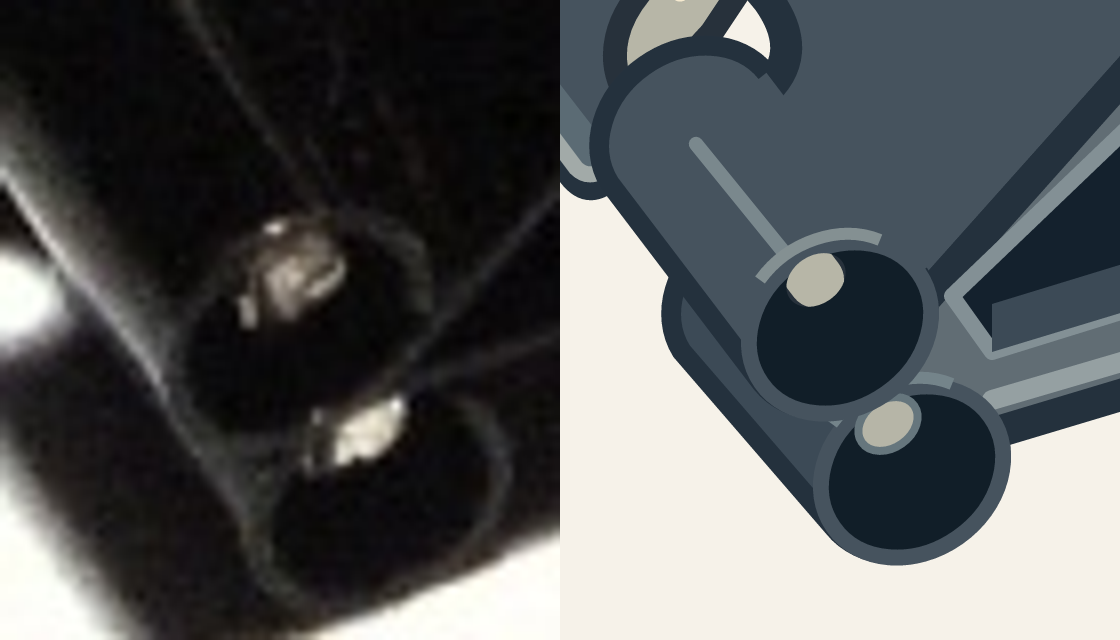
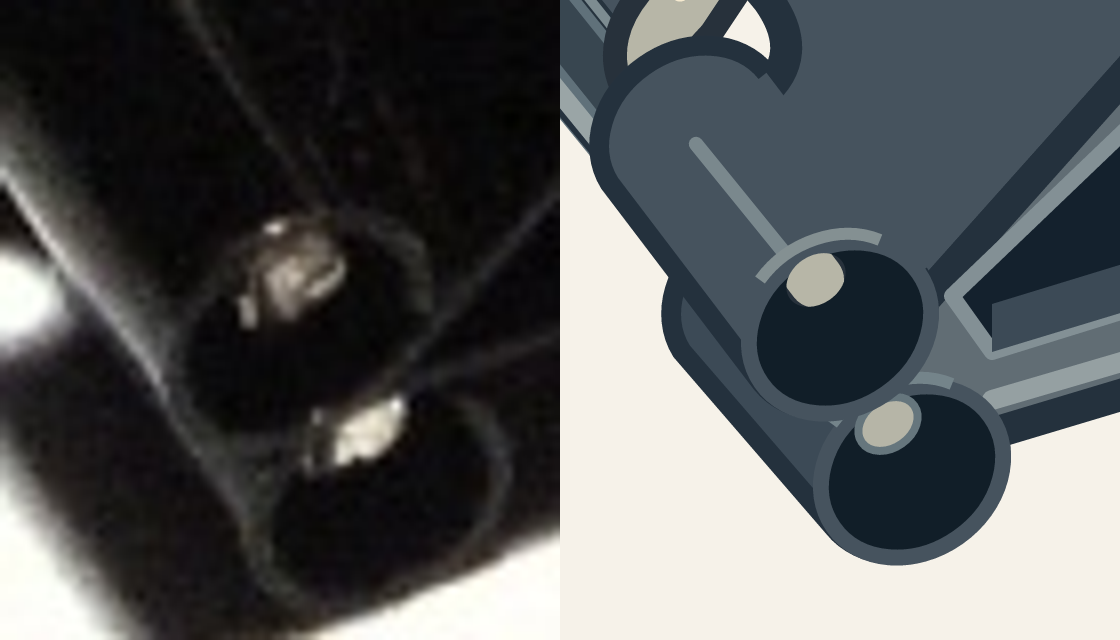
Correct binder clip central edge to an upturned open curl

Changed region(s): [[0.5, 0.0938, 0.5625, 0.3125], [0.5, 0.0, 0.5625, 0.0625]]

diff --git a/examples/svg-binder-clip/README.md b/examples/svg-binder-clip/README.md
@@ -11,7 +11,7 @@ This is an actual iterative example, including errors; it is not a performance b
 | `reference.jpg` | Richard Wheeler's complete oblique clip; target silhouette, handle projections and relative locations | Dark paint hides parts of the mouth; not an orthographic ruler |
 | `support-black.jpg` | HenryLi's black clip, broad-face oblique; sheet continuity and raised wire legs | Different specimen/size, not a source of target proportions |
 | `support-unpainted.jpg` | Prosavage2600's unpainted folded clip; rolled sheet and wire contact under different reflectance | Different finish/specimen; not a color or silhouette reference |
-| `support-no-handles.jpg` | Thaurisil's arm-up/arm-down/arm-free clips; the exposed mouth confirms the central shallow folded lip and chamfered returns into two entry slots | Different specimen, topology only; not a dimensional source |
+| `support-no-handles.jpg` | Thaurisil's arm-up/arm-down/arm-free clips; the exposed mouth identifies two entry slots and the central continuous sheet; the metal-finish view is needed to read its raised curled section | Different specimen, topology only; not a dimensional source |
 | `support-views.jpg` | Polyparadigm's set; large broad-face clip shows two mouth interruptions and central curled lip; lower-right end view shows folded cross-section | Different sizes and poses; only common visible topology is transferable |
 
 Searches included `binder clip single`, Commons file/category searches, and candidate
@@ -42,8 +42,8 @@ Current source uses shared coordinates for independent parts:
 
 The initial partial-local attempt failed. The current version follows the complete
 [local execution record](execution-record.md), with actual independent part/context
-inspections before reassembly in `source.svg`, followed by a fresh
-[current whole inspection](execution-record.md#current-whole-inspection-after-central-rework).
+inspections before reassembly in `source.svg`, followed by whole inspection and subsequent user corrections in the
+[central rework and withdrawn whole inspection](execution-record.md#upturned-central-curl-correction).
 The render script checks that assembly includes the exact current part groups. This
 checks version integrity, not whether the drawing is structurally or artistically correct.
 
@@ -105,7 +105,7 @@ light/dark views at its true size within a 160px whole. See
 
 ![Auxiliary view, target and current SVG for three local relationships](reference-evidence.png)
 
-Rows cover entry reliefs/central lip, folded end/opposing mouths, and bent wire/rolled
+Rows cover the raised central curl (metal-finish specimen), folded end/opposing mouths, and bent wire/rolled
 sheet. Left crops are different specimens and explain topology only; target and SVG
 columns use the same target crop and scale. The lower-left footprint remains cast
 shadow and is excluded from the transparent prop. The later wire correction and

diff --git a/examples/svg-binder-clip/execution-record.md b/examples/svg-binder-clip/execution-record.md
@@ -1,6 +1,6 @@
 # Binder-clip execution record
 
[1 lines of base64/hex data omitted]
+Current stage: REOPENED after the user identified a wrong central curl in commit 72e77a0. The whole inspection for source 6432b456d31320b80450b1e80c62dbc6d169a3b7dec4df6bddbf848857c6ec75 is withdrawn. Central cross-section is being corrected; no current whole approval or user acceptance.
 
 ## Reference roles actually inspected
 
@@ -166,3 +166,31 @@ photo highlights remain unconfirmed; auxiliary specimens do not establish target
 measurements. The original unedited reports remain in the private test cache.
 The withdrawn [earlier whole review](whole-review.md) is retained as failure history,
 not evidence for this current source or a substitute for visual judgment.
+
+## Upturned central curl correction
+
+The user rejected commit 72e77a0: the central free edge was flattened into a
+strip/downward flange. The preceding whole inspection is withdrawn. A front view
+without handles identified the slots but did not establish a flat cross-section;
+using it to simplify the curl was a mistaken inference.
+
+Root and a fresh read-only reference trace opened all four auxiliary/target views.
+In support-unpainted.jpg, (365,495) to (520,250) shows the relevant middle edge:
+continuous sheet root, raised rounded crest, returning face and exposed curved
+sheet ends. The earlier lower-left crop around a sleeve did not answer this
+cross-section question. The central feature is an open curl, not another closed
+wire sleeve. Rise is relative to the sheet plane, not simply screen-up translation.
+
+Root revised the independent central SVG into a curved raised section with an
+inward-returning free edge; opened its same-coordinate target comparison and 1×
+light/dark views; then transferred that exact group to the mouth context, left
+context and whole. Root reopened the new mouth comparison and whole/native views.
+The evidence board now shows the actual metal-finish middle-edge crop. Exact curl
+angle/radius are schematic rather than measured. No user acceptance is claimed.
+
+A fresh independent image review of current source
[1 lines of base64/hex data omitted]
+opened the current isolated curl, mouth context, whole and native rotations. It
+read a raised crest, returning face and free edge over the sheet rather than a
+flat flange or a third closed tube. No concrete mandatory issue was identified
+within that central-only scope. It does not reinstate the withdrawn whole approval.
